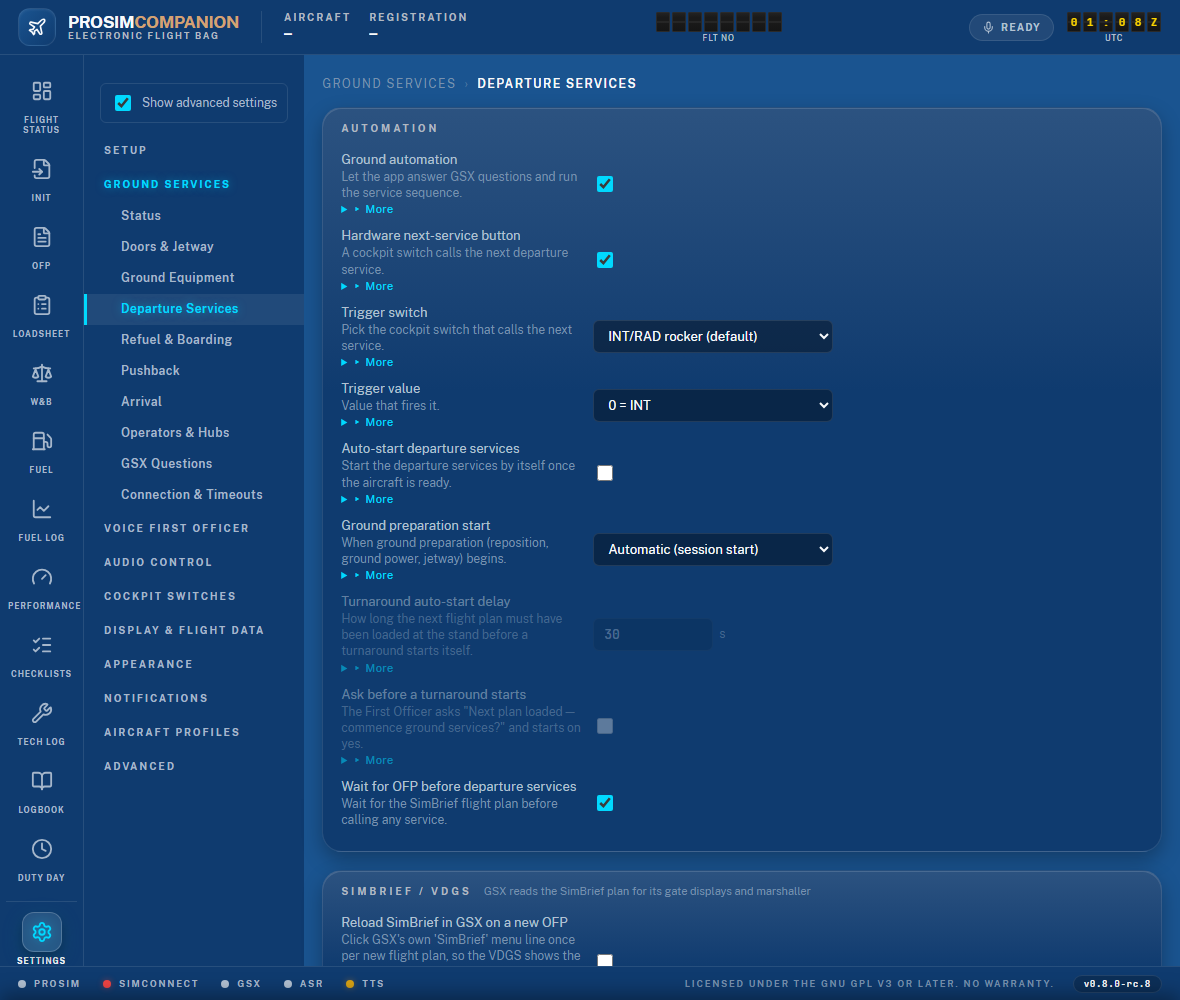
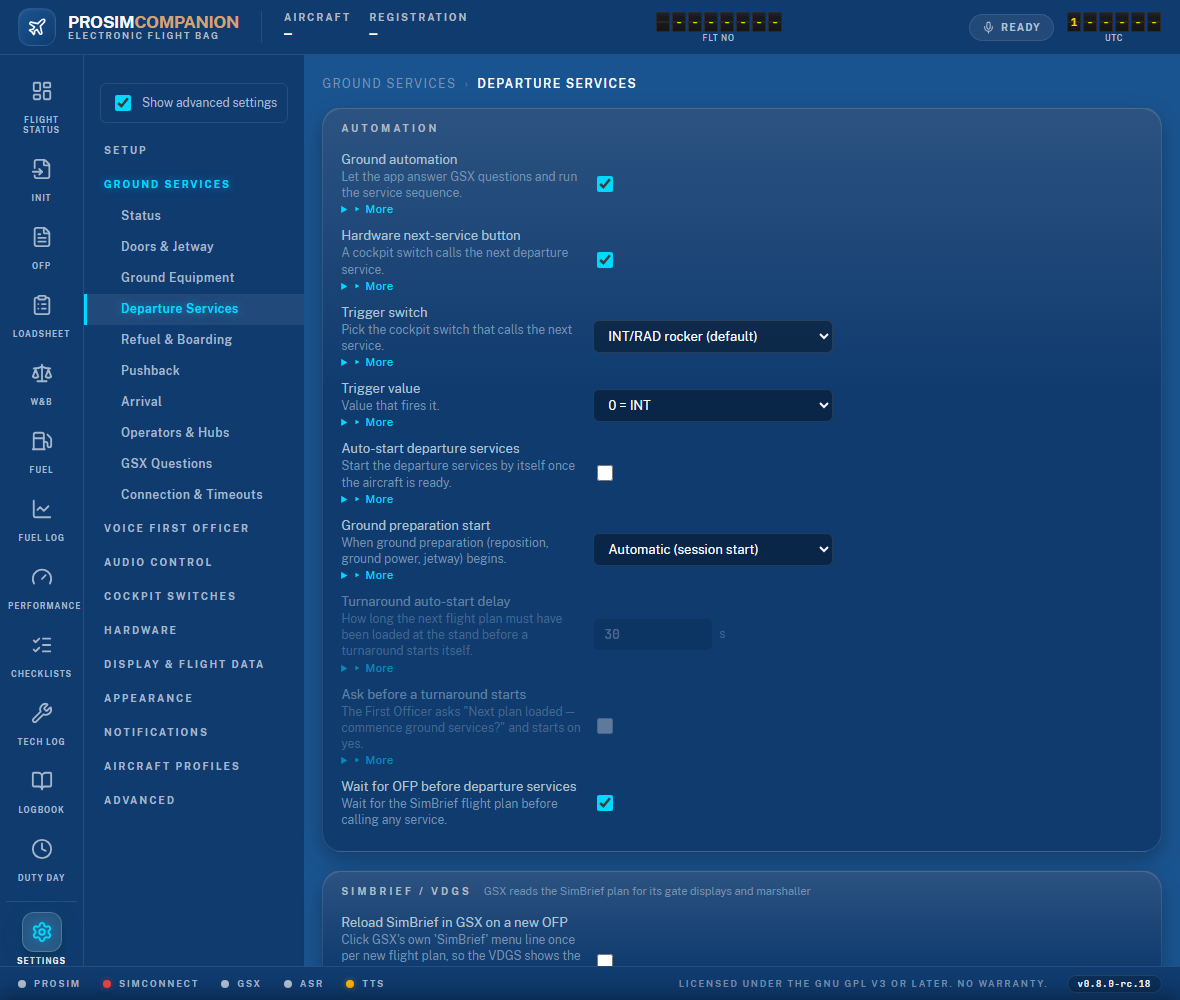
Docs: refresh every screenshot at 0.8.0-rc.18; pictures of the Diagnostics pages and the Skalarki Panels settings page; README Diagnostics bullet

Changed region(s): [[0.0915, 0.62, 0.2136, 0.806], [0.5797, 0.961, 0.8847, 0.992], [0.9153, 0.961, 0.9763, 0.992]]

diff --git a/docs/manual/13-diagnostics.md b/docs/manual/13-diagnostics.md
@@ -6,7 +6,8 @@ right now, and which link is unhappy? The badge on the sidebar item shows how ma
 are up (amber), or turns red when one of them is a warning.
 
 The pages live at `/diagnostics` (VOICE), `/diagnostics/sim`, `/diagnostics/remote`,
-`/diagnostics/gsx` and `/diagnostics/status`. The row of names under the memo strip switches
+`/diagnostics/gsx` and `/diagnostics/status`, plus `/diagnostics/panels` while the Skalarki
+link is switched on. The row of names under the memo strip switches
 pages; they are ordinary links, so they work on the tablet too. The drawing scales to the
 window as one piece and never rearranges itself.
 
@@ -27,7 +28,7 @@ Every page ends with the same strip: the app version, something page-specific (t
 the simulator, the client count, the GSX state), the time the app has been up, and the flight
 phase.
 
-[screenshot: voice page]
+![Diagnostics VOICE page](../img/diagnostics-voice.png)
 
 ## VOICE
 
@@ -48,7 +49,7 @@ Top right: the last thing the app heard, with its confidence and length, what th
 of it (INTENT, ACTION), which gate was in use and how many utterances were rejected in the
 last minute (BLEED: noise, empty transcripts, the FO's own voice heard back).
 
-[screenshot: sim page]
+![Diagnostics SIM page](../img/diagnostics-sim.png)
 
 ## SIM
 
@@ -69,7 +70,7 @@ Stream Deck (how long since it last polled) and the remote mixer agents as numbe
 The **AUDIO ROUTING** row shows each configured mixer channel, ON or OFF, its level and the
 strip or bus it drives.
 
-[screenshot: remote page]
+![Diagnostics REMOTE page with two mixer agents](../img/diagnostics-remote.png)
 
 ## GSX
 
@@ -78,18 +79,25 @@ services around it, each box wired to where that service meets the aircraft: abo
 **pushback** (the tug at the nose tip) and **GPU** (the cable on the forward right fuselage);
 on the left, **boarding** at the top (tied to the jetway, and to the stairs when they are in
 use), the **jetway** to door 1L, the **stairs** to door 4L; on the right, **catering** beside the service door your GSX profile uses (1R at
-the top, or 4R at the bottom: set it under Settings → Ground Services → Doors → Catering
-door), **refuel** to the right wing and **de-icing**. Each box shows the GSX stage (`AVAIL`,
+the top, or 4R at the bottom: Settings → Ground Services → Doors → Catering door is **Auto**
+by default and learns the door the first time GSX opens it; Forward / Aft pin it by hand),
+**refuel** to the right wing and **de-icing**. Each box shows the GSX stage (`AVAIL`,
 `REQ`, `CONN`, `PROG`, `DONE`, or `- - -` when not required) with a detail line. The three
 bars are the boarding, cargo and refuel progress. The memo strip here is GSX-specific: the
 Couatl connection, what the smart button would do next, how long the turnaround has been
 running.
+
+![Diagnostics GSX page](../img/diagnostics-gsx.png)
 
 ## PANELS
 
 Shown only when **Settings → Hardware → Skalarki Panels** is switched on (it needs the
 SkalarkiIO Profiler and its SDK folder; see that page). The page is your Skalarki cockpit
 hardware as the Profiler sees it.
+
+![Diagnostics PANELS page before the SDK folder is set](../img/diagnostics-panels.png)
+
+![Skalarki Panels settings page](../img/hardware-skalarki.png)
 
 - **PROFILER** box: the Profiler PC and port, CONN / RECONN, the SDK version; beside it LIC
   (always `- - -`: this SDK cannot be asked for the licence without losing its events) and the
@@ -139,7 +147,7 @@ memo strip counts cautions and warnings, and the **BUNDLE** cell is the same sup
 the Logs page: the bundle now includes the diagnostics snapshot and the RECENT list, so a bug
 report carries what the pages showed.
 
-[screenshot: status page]
+![Diagnostics STATUS page](../img/diagnostics-status.png)
 
 ## Common cautions and what to do
 
@@ -161,3 +169,5 @@ report carries what the pages showed.
 Settings → Advanced → **Diagnostics** holds the two knobs: how often the pages redraw (one
 second by default) and the short names shown above the VOICE boxes for each configured
 server. Both apply live.
+
+![Diagnostics settings](../img/diagnostics-settings.png)

diff --git a/docs/manual/README.md b/docs/manual/README.md
@@ -31,7 +31,7 @@ kept there so a broken web configuration can always be repaired.
 | [Loudspeaker dial](08-loudspeaker-dial.md) | Headset sound on the cockpit speakers with the LOUD SPEAKER dial as their volume: the VoiceMeeter wiring (VBAN loop) and the mapping |
 | [Remote mixer](09-remote-mixer.md) | Voicemeeters on other PCs (the vPilot box, or one PC per pilot) driven from the cockpit through VoicemeeterBridge agents: setup on every PC, one agent block each, knob and REC-button mappings, the status card, the two-pilot-PC example |
 | [Two headsets](11-two-headsets.md) | The VoiceMeeter layout for two headsets with online ATC: one fader per strip or bus, a bus per headset, how to get INT on its own knob, why VHF2 cannot have its own bus |
-| [Diagnostics: the ECAM-style system pages](13-diagnostics.md) | The five pages under Settings → Diagnostics (VOICE, SIM, REMOTE, GSX, STATUS): how to read green / amber / red / `XX` / `- - -`, what the common cautions mean and what to do, the sidebar badge, the bundle |
+| [Diagnostics: the ECAM-style system pages](13-diagnostics.md) | The pages under Settings → Diagnostics (VOICE, SIM, REMOTE, GSX, STATUS, and PANELS for Skalarki hardware): how to read green / amber / red / `XX` / `- - -`, what the common cautions mean and what to do, the sidebar badge, the bundle |
 | [Stream Deck on another PC: cockpit switches and camera views](12-remote-streamdeck.md) | Running the plugin on a second PC; Cockpit Switch keys that press ProSim switches you have no hardware for (Korry buttons, toggles, knobs, drawn like the real overhead); Camera View keys that change ChasePlane views through the vJoy relay |
 
 ## Design principles (what to expect)

diff --git a/README.md b/README.md
@@ -68,6 +68,13 @@ flight pages, live figures on glass instrument cards, and a Solari split-flap cl
   complete, each once per flight; URLs and tokens stored encrypted (off by default)
 - **Every setting has a page** — persona, company channel, debrief, duty day, tech log,
   logbook, ECAM abnormals, ActiveSky, the update check; nothing is `settings.json`-only
+- **Diagnostics pages drawn like the ECAM system displays** — VOICE (mic → VAD → STT → LLM →
+  TTS → out, with the last utterance), SIM (ProSim, SimConnect, the sim PC), REMOTE (Stream
+  Deck, mixer agents, the LAN), GSX (the aircraft from above with every ground service wired
+  to its door, live GSX state, a clickable GPU box) and STATUS (every caution with the action
+  taken, INOP SYS, DEGRADED, RECENT); green / amber / red / `XX` / `- - -` exactly as the
+  aircraft shows them, a caution badge on the sidebar, and the snapshot in the support bundle —
+  [chapter 13](docs/manual/13-diagnostics.md)
 - **Wake-on-LAN for every PC you depend on** (Setup page) — the language-model box, the
   speech server, an ActiveSky PC: one row each, a magic packet at startup, Send now any time
 - **SayIntentions, both ways** — your arrival gate goes to SayIntentions ATC, and (opt-in)
@@ -186,6 +193,8 @@ flight pages, live figures on glass instrument cards, and a Solari split-flap cl
 
 ![Performance](docs/img/performance.png)
 ![Cockpit Switches](docs/img/cockpit-switches.png)
+![Diagnostics GSX page](docs/img/diagnostics-gsx.png)
+![Diagnostics PANELS page](docs/img/diagnostics-panels.png)
 
 ## Getting started
 

diff --git a/CHANGELOG.md b/CHANGELOG.md
@@ -7,6 +7,7 @@ Local build for the owner's next flight, 2026-10-27, on `feature/ecam-diagnostic
 - Fixed: **Diagnostics GSX page, door labels** (owner screenshot 2026-10-27): "FWD CGO" and "AFT CGO" wrapped onto a second line over the door marker. Every open-door label is now one line of fixed width, right-aligned to the marker on the left side and left-aligned on the right.
 - Changed: the jetway, stairs and catering connectors stop 12 px outside the fuselage line, dot and all, so the door marker's own colour (green closed, amber open) is visible again instead of being covered by the dot.
 - Added: **catering door learned from GSX** (owner flight 2026-10-27: the truck came to 4R while the page, reading the "forward" setting, drew it at 1R). `gsx.cateringDoor` gains **Auto** (now the default): the first time GSX pulses a service-door toggle (`SERVICE_1` = 1R, `SERVICE_2` = 4R) the door service records `gsx.cateringDoorLearned` in settings.json and the GSX page draws CATERING beside that door from then on. Forward / Aft still pin the door by hand; the Doors hint on Ground Services shows what was learned. Learning works with door automation off. Probe `catering-door-learned`.
+- Docs: every screenshot retaken on this build; pictures of the six Diagnostics pages and the Skalarki Panels settings page in chapter 13 and the README; the README gains the Diagnostics bullet; the catering-door text in chapter 13 follows the Auto default.
 
 ## 0.8.0-rc.17
 
